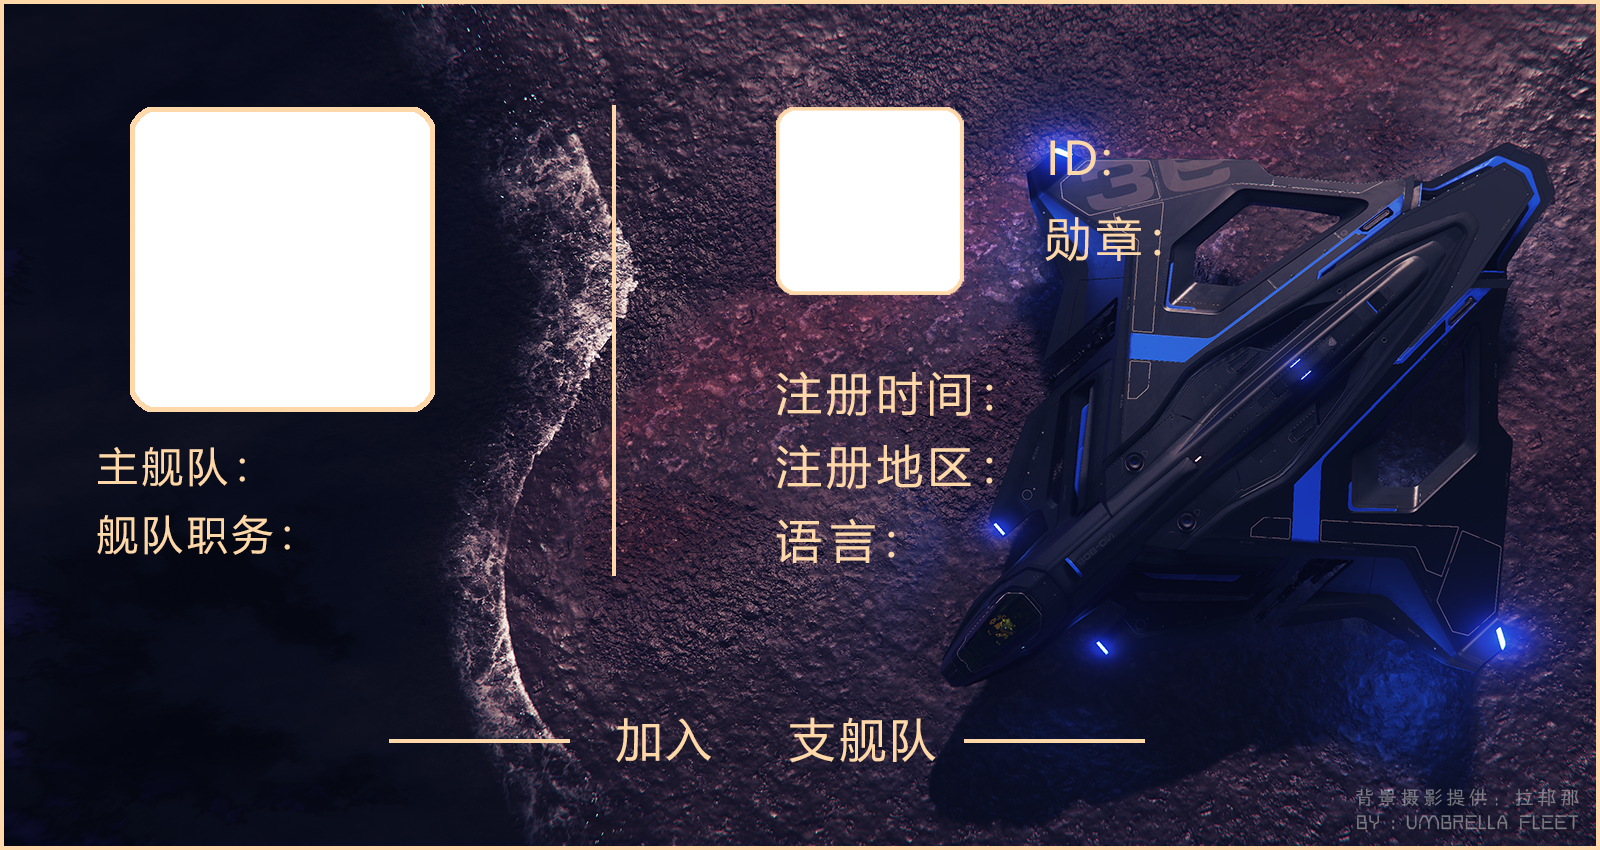
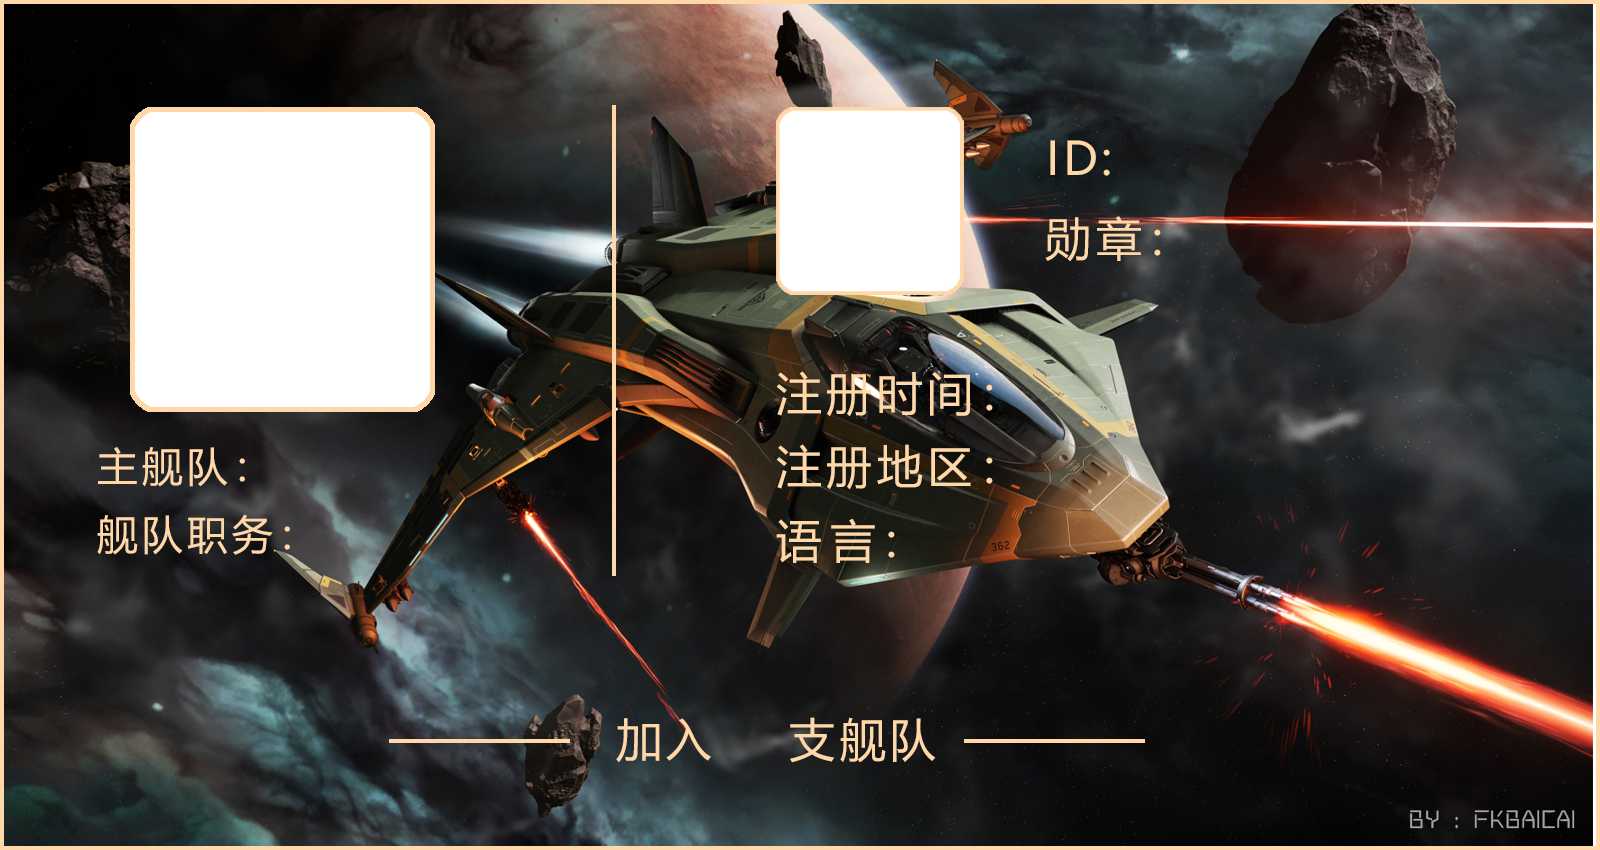
@danty 接口变动数据更新

diff --git a/my_project/ptojectAPI.py b/my_project/ptojectAPI.py
@@ -25,13 +25,13 @@ class MakePhoto:
         self.interface = interface
         self.template_image_name = self.config[interface]["background"].replace(".png", "_template.png")
         if self.interface == "boat":
-            random_number = random.randint(1, 10)
+            random_number = random.randint(1, 6)
             if random_number < 10:
                 random_number = "0" + str(random_number)
             else:
                 random_number = str(random_number)
             self.back_ground_image = Image.open(
-                self.config[interface]["background"].replace(".png", f"_{random_number}.png"))
+                self.config[interface]["background"].replace(".png", f"_{random_number}.jpg"))
 
         else:
             random_number = random.randint(1, 5)
@@ -260,13 +260,13 @@ class GetValue():
         self.add_name = name_list[2]
 
         if boat_value == {} or boat_value["boat_json"] == "" or "boat_json" not in boat_value:
-            res1  = json.loads(Request.get_html_encode("https://www.spviewer.eu/assets/json/ship-list-min.json"))
+            res1 = json.loads(Request.get_html_encode("https://www.spviewer.eu/api/live/ship-list-min.json"))
         else:
             res1 = boat_value["boat_json"]
         res2 = Request.get_html_encode(f"https://starcitizen.tools/{self.name}")
 
         if boat_value == {} or boat_value["ship_hardpoints"] == "" :
-            ship_hardpoints = "https://www.spviewer.eu/assets/json/ship-hardpoints-min.json"
+            ship_hardpoints = "https://www.spviewer.eu/api/live/ship-hardpoints-min.json"
             boat_response = requests.get(ship_hardpoints)
             json_data = boat_response.content.decode('utf-8-sig')
             boat_weapon_list = json.loads(json_data)
@@ -274,7 +274,7 @@ class GetValue():
             boat_weapon_list = boat_value["ship_hardpoints"]
 
         if boat_value == {} or boat_value["data_version"] == "":
-            data_version = Request.get_html_encode("https://www.spviewer.eu/assets/js/data-version.js").decode('utf-8')
+            data_version = Request.get_html_encode("https://www.spviewer.eu/assets/index-CqwyUOLj.js").decode('utf-8')
         else:
             data_version = boat_value["data_version"]
 
@@ -367,11 +367,14 @@ class GetValue():
         quality = common_method.decimal_de_zeroing(res1["Mass"])
         boat_value_dict["quality"] = quality + " KG"
         # 货物
-        goods = common_method.decimal_de_zeroing(res1["Cargo"])
+        goods = common_method.decimal_de_zeroing(res1["Cargo"]['CargoGrid'])
         boat_value_dict["goods"] = goods + " SCU"
         # 储存
-        ExternalStorage = common_method.decimal_de_zeroing(res1["PersonalInventory"])
-        boat_value_dict["storage_space"] = ExternalStorage + ",000 K uSCU"
+        try:
+            ExternalStorage = common_method.decimal_de_zeroing(res1['Cargo']["PersonalInventory"])
+            boat_value_dict["storage_space"] = ExternalStorage + ",000 K uSCU"
+        except:
+            boat_value_dict["storage_space"] = "--数据错误需修复"
         # 索赔\加急
         Insurance = res1["Insurance"]
         StandardClaimTime = common_method().convert_seconds_to_time_format(Insurance["StandardClaimTime"])
@@ -490,15 +493,15 @@ class GetValue():
         # 机体血量
         try:
             body_blood_volume = 0
-            for i in res1["Hull"]['StructureHealthPoints']['SecondaryParts'].values():
+            for i in res1["Hull"]['StructureHealthPoints']['VitalParts'].values():
                 body_blood_volume += i
-            for i in res1["Hull"]["StructureHealthPoints"]['MainParts'].values():
+            for i in res1["Hull"]["StructureHealthPoints"]['Parts'].values():
                 body_blood_volume += i
             boat_value_dict["body_blood_volume"] = common_method.decimal_de_zeroing(body_blood_volume) + " HP"
         except:
             boat_value_dict["body_blood_volume"] = "-"
         # 机头\机身
-        Canopy = res1["Hull"]["StructureHealthPoints"]['MainParts']
+        Canopy = res1["Hull"]["StructureHealthPoints"]['VitalParts']
         if "Nose" in Canopy:
             Canopy = Canopy["Nose"]
         elif "nose" in Canopy:
@@ -507,7 +510,7 @@ class GetValue():
             Canopy = "-"
         Canopy = common_method.decimal_de_zeroing(Canopy)
 
-        Body = res1["Hull"]["StructureHealthPoints"]['MainParts']
+        Body = res1["Hull"]["StructureHealthPoints"]['VitalParts']
         if "Body" in Body:
             Body = Body['Body']
         elif "body" in Body:
@@ -777,7 +780,7 @@ class GetValue():
             '//*[@class ="infobox__content mw-collapsible-content"]//*[@class = "mw-file-description"]//img/@src')[0]
 
         # 采集版本
-        match = re.search(r',gameversion="([^"]+)"', data_version)
+        match = re.search(r'ie.ptugameversion="([^"]+)"', data_version)
         if match:
             boat_value_dict["collection_version"] = match.group(1)
 
@@ -808,17 +811,18 @@ class BoatPhoto:
 
         # 加载静态数据
         boat_json = json.loads(
-            Request.get_html_encode("https://www.spviewer.eu/assets/json/ship-list-min.json"))
-        ship_hardpoints = "https://www.spviewer.eu/assets/json/ship-hardpoints-min.json"
+            Request.get_html_encode("https://www.spviewer.eu/api/live/ship-list-min.json"))
+        ship_hardpoints = "https://www.spviewer.eu/api/live/ship-hardpoints-min.json"
         boat_response = requests.get(ship_hardpoints)
         json_data = boat_response.content.decode('utf-8-sig')
         boat_weapon_list = json.loads(json_data)
 
         data_version = Request.get_html_encode(
-            "https://www.spviewer.eu/assets/js/data-version.js").decode('utf-8')
+            "https://www.spviewer.eu/assets/index-CqwyUOLj.js").decode('utf-8')
 
         boat_value = {"boat_json": boat_json, "ship_hardpoints": boat_weapon_list,
                       "data_version": data_version}
+
 
         # 线程任务函数
 

diff --git a/my_project/main.py b/my_project/main.py
@@ -161,23 +161,22 @@ def boat_real_time():
         get_all_boat_thread = threading.Thread(target=BoatPhoto().get_all_boat)
         get_all_boat_thread.start()
         logging.info("启动船只更新")
-
-
-
+    #
+    #
     # try:
     #     name = request.args.get('name')
     #     name = urllib.parse.unquote(name)
     #     image = MakePhoto("boat",name).make_boat()[0]
     # except Exception as e:
     #     return abort(400, description=str(e))
-    #
-    # buffer = BytesIO()
-    # image.convert('RGBA').save(buffer, format="PNG")
-    # buffer.seek(0)
-    #
-    # # 将图像作为响应内容返回
-    # response = make_response(buffer.getvalue())
-    # response.headers["Content-Type"] = "image/png"
+
+    buffer = BytesIO()
+    image.convert('RGBA').save(buffer, format="PNG")
+    buffer.seek(0)
+
+    # 将图像作为响应内容返回
+    response = make_response(buffer.getvalue())
+    response.headers["Content-Type"] = "image/png"
 
     return response
 
